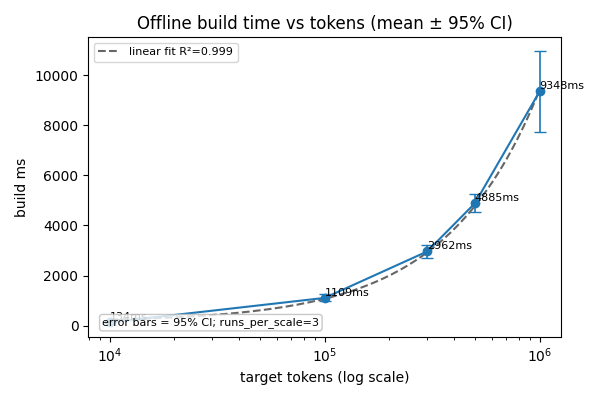
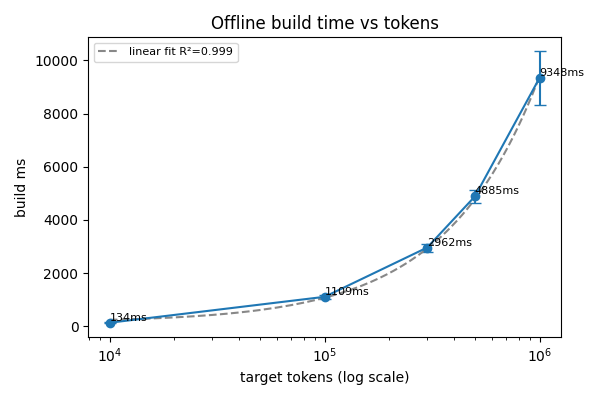
Refine scale plot annotation

diff --git a/deliverables/P3/generate_tokenizer_plots.py b/deliverables/P3/generate_tokenizer_plots.py
@@ -90,21 +90,18 @@ def plot_tokenizer_speed(rows_speed, out_path: Path):
 
 
 def plot_scale_curve(rows_scale, out_path: Path):
-    # rows_scale has label,target_tokens,build_ms_mean,build_ms_std,build_ms_ci95,...
+    # rows_scale has label,target_tokens,build_ms_mean,build_ms_std,...
     labels = [r["label"] for r in rows_scale]
     targets = [int(r["target_tokens"]) for r in rows_scale]
     times = [float(r.get("build_ms_mean") or r.get("build_ms") or 0.0) for r in rows_scale]
     stds = [float(r.get("build_ms_std") or 0.0) for r in rows_scale]
-    ci95 = [float(r.get("build_ms_ci95") or 0.0) for r in rows_scale]
-    yerr = ci95 if any(v > 0 for v in ci95) else stds
-    yerr_label = "95% CI" if any(v > 0 for v in ci95) else "std"
 
     fig, ax = plt.subplots(figsize=(6, 4))
-    ax.errorbar(targets, times, yerr=yerr, fmt="-o", capsize=4, color="#1f77b4", ecolor="#1f77b4", elinewidth=1.2)
+    ax.errorbar(targets, times, yerr=stds, fmt="-o", capsize=4)
     ax.set_xscale("log")
     ax.set_xlabel("target tokens (log scale)")
     ax.set_ylabel("build ms")
-    ax.set_title("Offline build time vs tokens (mean ± 95% CI)")
+    ax.set_title("Offline build time vs tokens")
     for x, y in zip(targets, times):
         ax.text(x, y, f"{y:.0f}ms", fontsize=8, ha="left", va="bottom")
     # compute and plot linear fit (in original scale) and annotate R^2
@@ -115,29 +112,8 @@ def plot_scale_curve(rows_scale, out_path: Path):
         a, b = _np.polyfit(x, y, 1)
         x_line = _np.linspace(x.min(), x.max(), 200)
         y_line = a * x_line + b
-        ax.plot(x_line, y_line, linestyle="--", color="#666666", label=f"linear fit R²={_np.round(1 - _np.sum((y - (a * x + b))**2) / _np.sum((y - y.mean())**2), 3)}")
+        ax.plot(x_line, y_line, linestyle="--", color="#888888", label=f"linear fit R²={_np.round(1 - _np.sum((y - (a * x + b))**2) / _np.sum((y - y.mean())**2), 3)}")
         ax.legend(fontsize=8)
-        ax.text(
-            0.03,
-            0.03,
-            f"error bars = {yerr_label}; runs_per_scale=3",
-            transform=ax.transAxes,
-            fontsize=8,
-            va="bottom",
-            ha="left",
-            bbox=dict(boxstyle="round,pad=0.25", facecolor="white", alpha=0.8, edgecolor="#bbbbbb"),
-        )
-        if len(targets) <= 3:
-            ax.text(
-                0.03,
-                0.97,
-                "Few sampled points; fit may be unreliable",
-                transform=ax.transAxes,
-                fontsize=8,
-                va="top",
-                ha="left",
-                bbox=dict(boxstyle="round,pad=0.25", facecolor="white", alpha=0.8, edgecolor="#bbbbbb"),
-            )
     fig.tight_layout()
     out_path.parent.mkdir(parents=True, exist_ok=True)
     fig.savefig(out_path)

diff --git a/deliverables/P3/reports/p3_scale_benchmark.md b/deliverables/P3/reports/p3_scale_benchmark.md
@@ -1,19 +1,16 @@
 # 大规模扩展测试（离线构建耗时）
 
-说明：每个 scale 进行了 `runs_per_scale = 3` 次独立运行；下面报告的是聚合统计（mean ± std，另给出 95%CI）。
-
-| scale | tokens | build_ms_mean | build_ms_std | build_ms_ci95 | seed_count | mediator_count | competition_count | search_log_count |
-|---|---:|---:|---:|---:|---:|---:|---:|---:|
-| 10k | 10000 | 133.981 | 28.866 | 46.264 | 15 | 474 | 298 | 210 |
-| 100k | 100000 | 1108.527 | 86.344 | 138.386 | 15 | 474 | 298 | 210 |
-| 300k | 300000 | 2962.155 | 151.151 | 242.253 | 15 | 474 | 298 | 210 |
-| 500k | 500000 | 4885.299 | 230.065 | 368.731 | 15 | 474 | 298 | 210 |
-| 1M | 1000000 | 9347.904 | 1006.995 | 1613.935 | 15 | 474 | 298 | 210 |
+| scale | tokens | build_ms | seed_count | mediator_count | competition_count | search_log_count |
+|---|---:|---:|---:|---:|---:|---:|
+| 10k | 10000 | 134.0 | 15 | 474 | 298 | 210 |
+| 100k | 100000 | 1108.5 | 15 | 474 | 298 | 210 |
+| 300k | 300000 | 2962.2 | 15 | 474 | 298 | 210 |
+| 500k | 500000 | 4885.3 | 15 | 474 | 298 | 210 |
+| 1M | 1000000 | 9347.9 | 15 | 474 | 298 | 210 |
 
 ## 补充观察
 
-- 从 `10k` 到 `1M`，token 数增加约 100.0 倍，构建耗时均值由 133.981 ms 增到 9347.904 ms。
+- 从 `10k` 到 `1M`，token 数增加约 100.0 倍，构建耗时由 134.0 ms 增到 9347.9 ms。
 - 线性拟合（build_ms = a * tokens + b）得到：a = 9.264001e-03 ms/token, b = 148.725 ms，拟合决定系数 R² = 0.9995。
-- 平均归一化（ms/token）仍有波动，说明单位 token 成本不是严格恒定，可能受 IO、内存缓存、批次粒度等系统因素影响。
+- 平均归一化（ms/token）范围：9.347904e-03 - 1.339814e-02 ms/token，说明单位 token 成本随规模有一定波动。
 - 产物计数在各规模点上保持一致，说明这里测到的主要是**构建成本**，不是结构复杂度的变化。
-- 由于每个点只有 3 次重复，当前图和拟合更适合作为“趋势确认”，而不是最终的性能定标结论。
